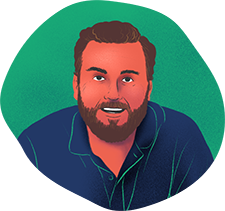
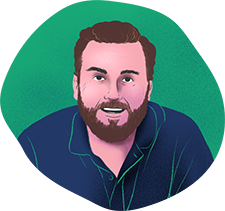
added static product section + updated chris illustration

Changed region(s): [[0.3111, 0.1706, 0.6844, 0.5972], [0.3733, 0.5972, 0.6222, 0.8531]]

diff --git a/assets/css/partials/_product.scss b/assets/css/partials/_product.scss
@@ -1,68 +1,115 @@
-#product-header {
-    display: flex;
-    flex-direction: column;
-    justify-content: center;
-    align-items: center;
-    height: 150px;
-}
-
-#product-timeline {
-    display: flex;
-    align-items: center;
-    justify-content: center;
-
-    .product-column {
-        // display: flex;
-        // flex-direction: column;
-        // align-items: center;
-        // // justify-content: center;
-        background: white;
-        width: 100%;
-        height: 2000px;
-    }
-
-    // #product-info {
-    //     background: red;
-    // }
-
-    // #product-visuals {
-    //     background: blue;
-    // }
-}
-
-.product-slide-info {
-    width: 100%;
-    padding: 2em 3em;
-    text-align: center;
-}
-
-#product-visual-frame {
-    display: flex;
-    align-items: center;
-    justify-content: center;
-    background: white;
-    width: 100%;
-}
-
-
-// .product-slide {
+// #product-header {
 //     display: flex;
-//     background: white;
-//     justify-content: space-between;
+//     flex-direction: column;
+//     justify-content: center;
+//     align-items: center;
+//     height: 150px;
+// }
 
-//     > div {
-//         display: flex;
-//         align-items: center;
-//         justify-content: center;
-//         background: grey;
-//         flex-grow: 1;
-//         height: 200px;
-//     }
+// #product-timeline {
+//     display: flex;
+//     align-items: center;
+//     justify-content: center;
 
-//     .product-slide-info {
-//         text-align: center;
+//     .product-column {
 //         background: white;
-//         width: 250px;
-//         padding: 2em;
+//         width: 100%;
+//         height: 2000px;
 //     }
 // }
+
+// .product-slide-info {
+//     width: 100%;
+//     padding: 2em 3em;
+//     text-align: center;
+// }
+
+// #product-visual-frame {
+//     display: flex;
+//     align-items: center;
+//     justify-content: center;
+//     background: white;
+//     width: 100%;
+// }
+
+#product {
+    width: 100%;
+
+    h2 {
+        max-width: 600px;
+        margin-bottom: 1.5em;
+    }
+}
+
+.product-intro {
+    margin: 4em 0;
+
+    h2 {
+        font-family: 'Source Sans Pro';
+        font-weight: 400;
+        letter-spacing: 8px;
+        font-size: 16px;
+        margin: 0 0 2rem 0;
+        text-transform: uppercase;
+        color: $fgblack;
+    }
+
+    // p {
+    //     font-family: $gastro;
+    //     font-size: 4em;
+    //     margin: 0;
+    //     color: $fgnavy;
+    //     line-height: 1.2;
+    // }
+}
+
+.product-text {
+    align-items: flex-start;
+
+    h6 {
+        font-family: 'Source Sans Pro';
+        font-weight: 400;
+        letter-spacing: 8px;
+        font-size: 16px;
+        text-transform: uppercase;
+        color: #ED6350; 
+    }
+
+    p:nth-of-type(2){
+        color: #808080;
+    }
+
+    span {
+        padding: 0 .25em;
+    }
+
+}
+
+.product-img {
+    display: flex;
+    justify-content: center;
+    width: 100%;
+
+    img {
+        width: 80%;
+        height: 80%;
+        margin: 1em 0;
+    }
+}
+
+@media only screen and (max-width: 900px) {
+
+    .product-text {
+        align-items: center;
+        margin-bottom: 5em;
+    }
+
+    .product-text:last-of-type {
+        margin-bottom: 0;
+    }
+
+}
+
+@media only screen and (max-width: 900px) {
+
+}

diff --git a/layouts/partials/product.html b/layouts/partials/product.html
@@ -1,0 +1,35 @@
+<section id="product" class="flex-column">
+    <div class="maxed-out">
+        <header class="product-intro">
+            <h2>Product Discovery & Validation</h2>
+            <p class="product-title">Prove the best ideas. </br>Kill the rest.</p>
+        </header>
+
+        <div class="results-grid flex-row">
+            <div class="product-img">
+                <img src="/img/illustrations/sphere01.jpg" srcset="/img/illustrations/sphere01@2x.jpg 2x" alt="illustrated, multicolored globe with characters surrounding it">
+            </div>
+            <div class="product-text flex-column">
+                <h6>Plan & Vision</h6>
+                <p class="prodp">Create informed ideas around a shared vision.</p>
+                <p class="prod-dot biggie">Discovery <span>•</span> Ideation <span>•</span> Strategy</p>
+            </div>
+            <div class="product-text flex-column">
+                <h6>Validate</h6>
+                <p class="prodp">Find out what's working. Improve what's not.</p>
+                <p class="prod-dot biggie">Prototyping <span>•</span> Testing <span>•</span> Iteration</p>
+            </div>
+            <div class="product-img">
+                <img src="/img/illustrations/sphere02.jpg" srcset="/img/illustrations/sphere02@2x.jpg 2x" alt="illustrated, multicolored globe with handwritten annoations">
+            </div>
+            <div class="product-img">
+                <img src="/img/illustrations/sphere03.jpg" srcset="/img/illustrations/sphere03@2x.jpg 2x" alt="illustrated, multicolored globe with rays emitting around the sphere">
+            </div>
+            <div class="product-text flex-column">
+                <h6>Decide</h6>
+                <p class="prodp">Understand the value, risk, and reward.</p>
+                <p class="prod-dot biggie">Improve Ideas <span>•</span> Roadmap MVP <span>•</span> Pivot</p>
+            </div>
+        </div>
+    </div>
+</section>

diff --git a/assets/css/partials/_typography.scss b/assets/css/partials/_typography.scss
@@ -1,4 +1,4 @@
-h1, h2, h3, h4, h5, h6 {
+h1, h2, h3, h4, h5, h6, .product-title {
     font-family: $gastro;
     color: $fgnavy;
     padding: .25em 0;
@@ -41,6 +41,20 @@ p {
 .thicc {
     color: $fgorange;
     font-size: 56px;
+}
+
+.product-title {
+    font-size: 70px;
+    line-height: 1.2;
+}
+
+.prodp {
+    font-size: 40px;
+    font-family: $gastro;
+    margin: .5em 0 .25em 0;
+    color: $fgnavy;
+    max-width: 560px;
+    line-height: 1.2;
 }
 
 strong {
@@ -97,7 +111,7 @@ strong {
 
 @media only screen and (max-width:815px) {
 
-    h1 {
+    h1, .product-title {
         font-size: 58px;
     }
 
@@ -109,14 +123,14 @@ strong {
         font-size: 36px;
     }
 
-    .thicc {
+    .thicc, .prodp {
         font-size: 7vw;
     }
 }
 
 @media only screen and (max-width: 415px) {
 
-    h1 {
+    h1, .product-title {
         font-size: 48px;
     }
 
@@ -124,7 +138,7 @@ strong {
         font-size: 35px;
     }
 
-    h4, .thicc {
+    h4, .thicc, .prodp {
         font-size: 26px;
     }
 

diff --git a/layouts/partials/wave-cta-end.html b/layouts/partials/wave-cta-end.html
@@ -11,7 +11,7 @@
             <a id="cta-end" class="cta-button" href="" onclick="Calendly.showPopupWidget('https://calendly.com/forestgiant');return false;">Let's Chat</a>
         </div>
         <div>
-            <img src="/img/illustrations/chris.png" alt="illustration of Chris Wiedmar"/>
+            <img src="/img/illustrations/chris.png" srcset="/img/illustrations/chris@2x.png 2x" alt="illustration of Chris Wiedmar"/>
             <p><strong>Chris Wiedmar</strong></p>
             <p>VP of Business Development</p>
         </div>

diff --git a/assets/css/partials/_results.scss b/assets/css/partials/_results.scss
@@ -121,8 +121,16 @@
 
     .results-grid div {
         flex-basis: 100%;
-        margin: 1em 0;
+        // margin: 1em 0;
         text-align: center;
+    }
+
+    .results-grid .results-text {
+        margin-bottom: 5em;
+    }
+
+    .results-grid .results-text:last-of-type {
+        margin-bottom: 0;
     }
 
     .results-text p {

diff --git a/layouts/index.html b/layouts/index.html
@@ -4,7 +4,8 @@
 {{ partial "wave-photo.html" . }}
 {{ partial "transformation.html" . }}
 {{ partial "wave-cta-mid.html" . }}
-{{ partial "matt.html" . }}
+<!-- {{ partial "matt.html" . }} -->
+{{ partial "product.html" . }}
 {{ partial "wave-process.html" . }}
 {{ partial "results.html" . }}
 {{ partial "wave-cta-end.html" . }}

diff --git a/assets/css/main.scss b/assets/css/main.scss
@@ -83,5 +83,5 @@ iframe {
 @import 'partials/product';
 @import 'partials/wave';
 @import 'partials/results';
-@import 'partials/matt';
+// @import 'partials/matt';
 @import 'partials/logofarm';
